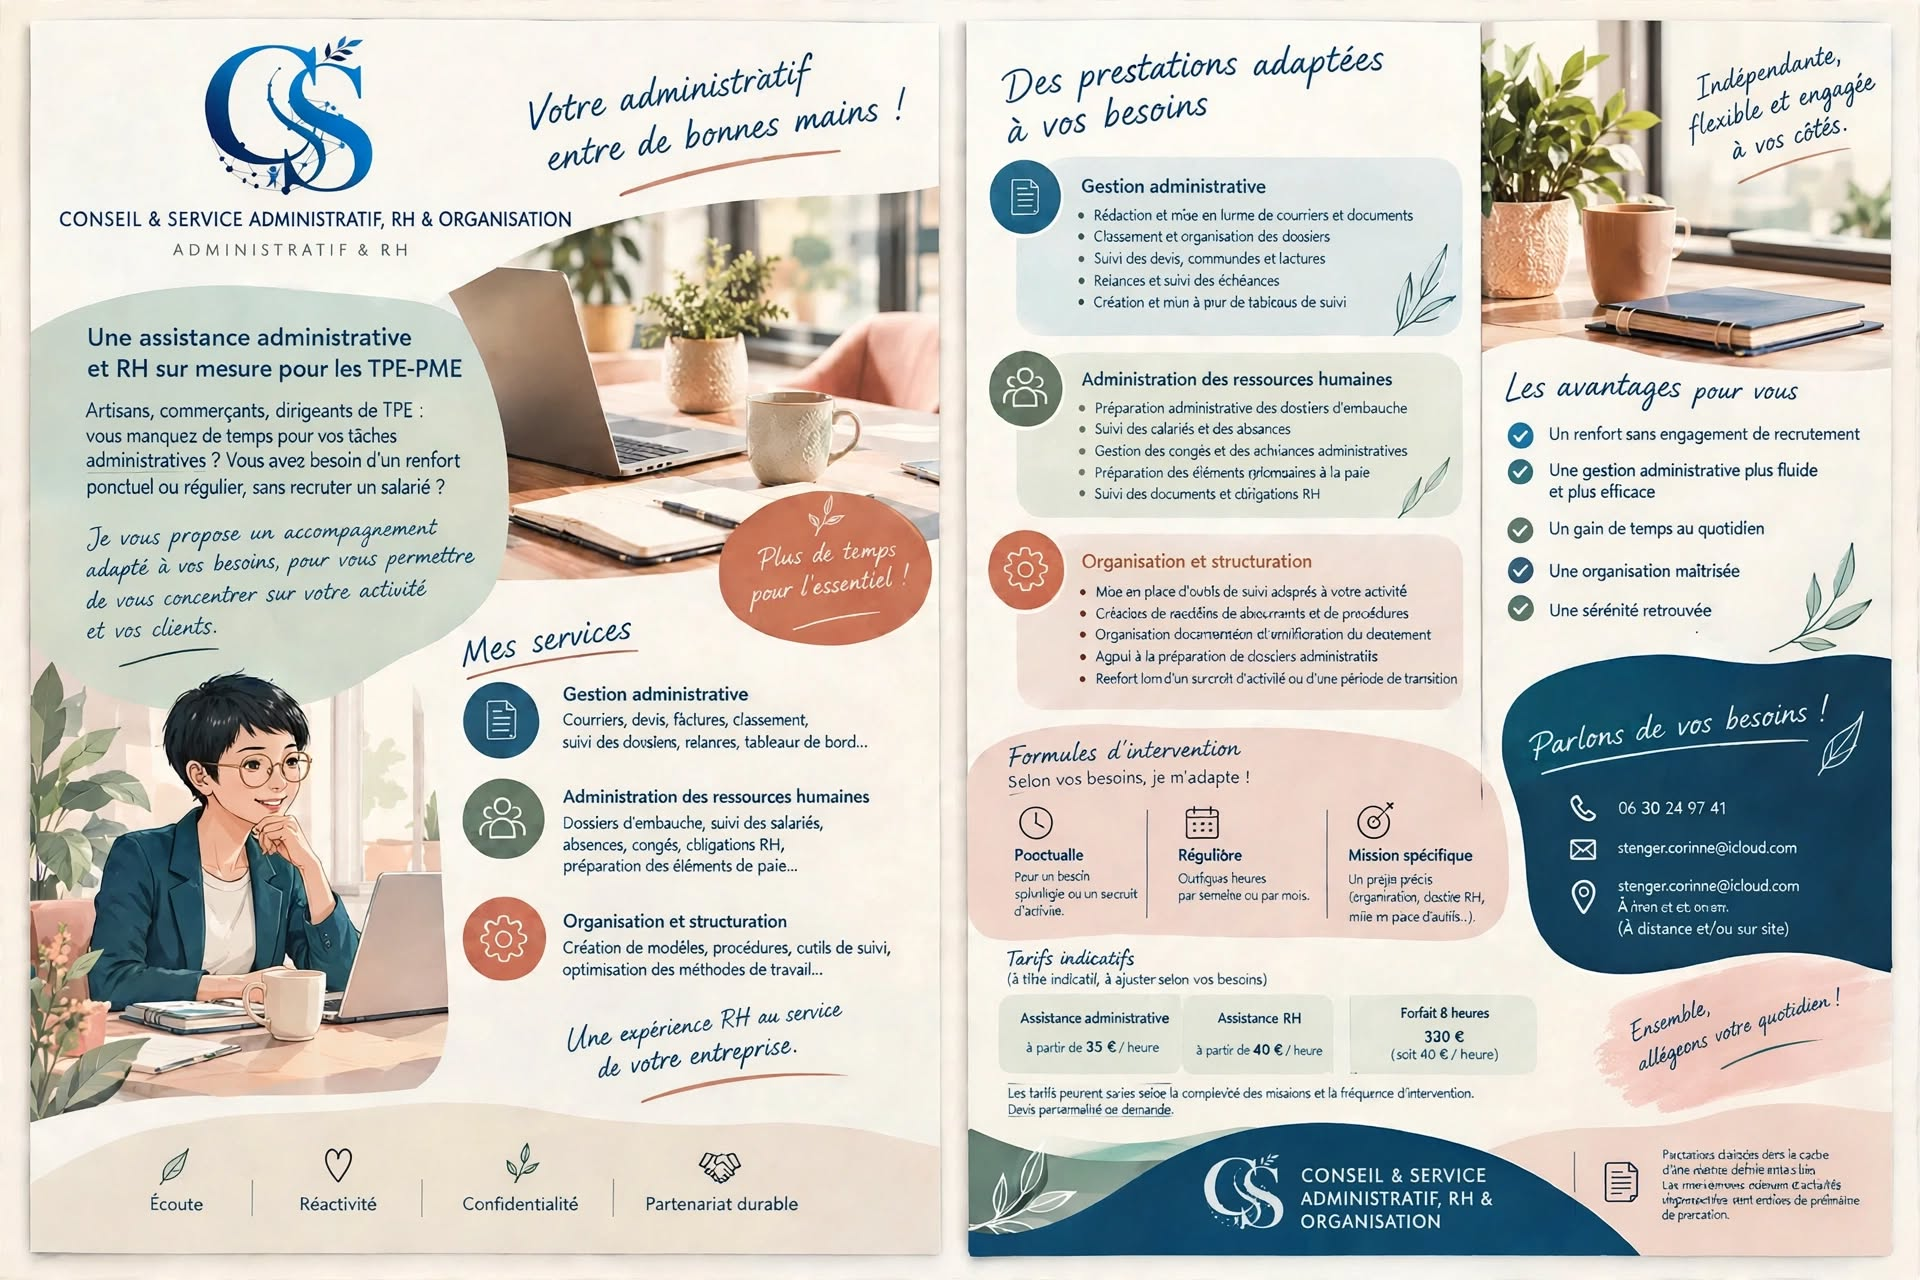
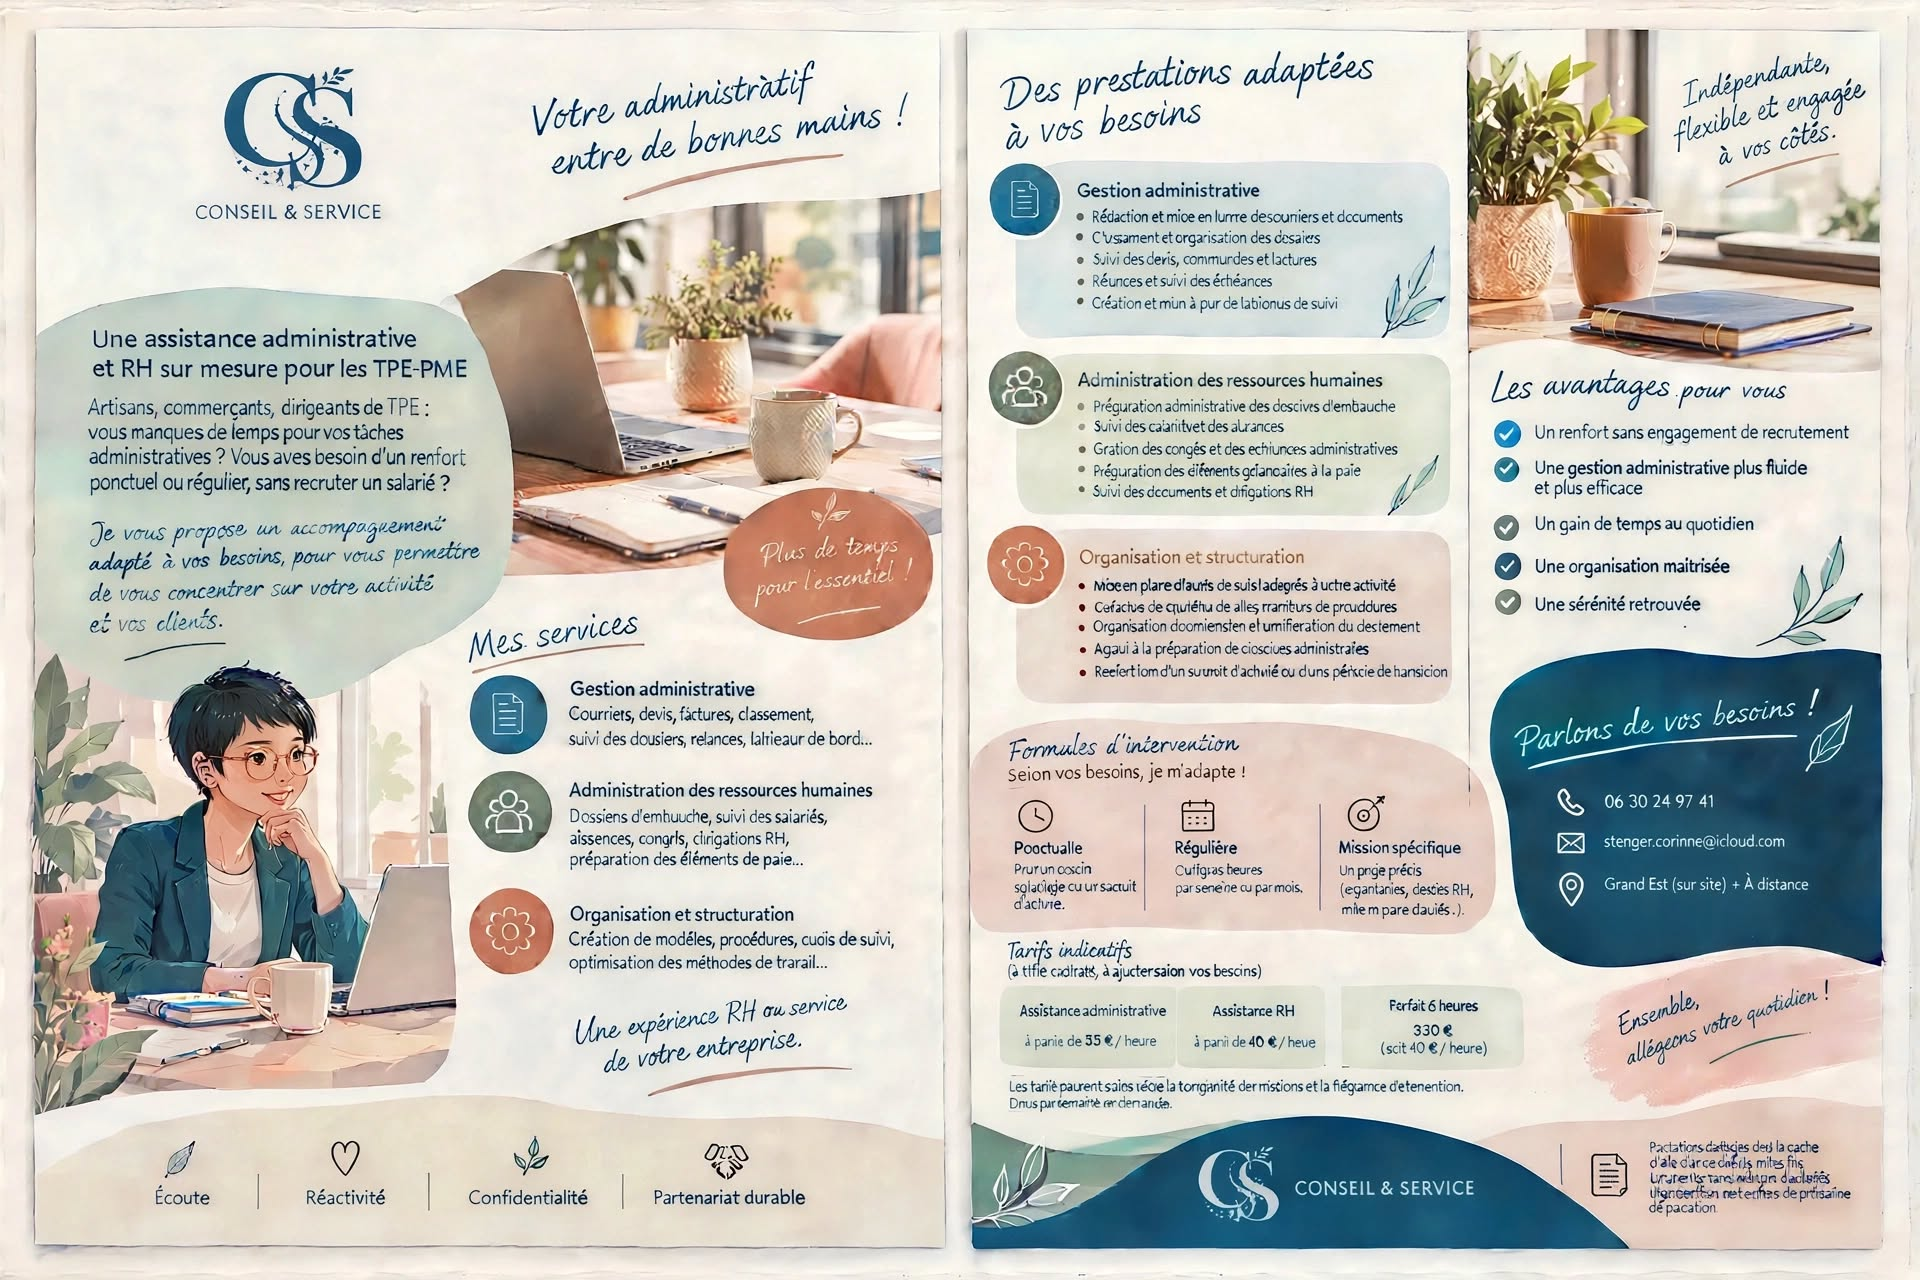
Ajout de la photo de profil et version finale du site

diff --git a/monsite.html b/monsite.html
@@ -15,6 +15,7 @@
             --bg-page: #ffffff;       
             --ink: #333333;
             --ink-soft: #5a5a5a;
+            --white: #ffffff;
         }
 
         * { margin: 0; padding: 0; box-sizing: border-box; }
@@ -92,6 +93,35 @@
         h2 { color: var(--navy); font-size: 2.2rem; font-weight: 400; margin-bottom: 2rem; position: relative; display: inline-block; }
         h2::after { content: ''; position: absolute; bottom: -10px; left: 50%; transform: translateX(-50%); width: 50px; height: 3px; background: var(--sage); border-radius: 2px; }
         
+        /* --- CARTE DE PROFIL --- */
+        .profile-card {
+            max-width: 260px;
+            margin: 0 auto 2rem auto;
+            border-radius: 20px;
+            overflow: hidden;
+            box-shadow: 0 12px 30px rgba(0,0,0,0.12);
+            background: var(--white);
+            border: 3px solid var(--sage-light);
+        }
+        .profile-card img {
+            width: 100%;
+            height: 280px;
+            object-fit: cover;
+            object-position: center top;
+            display: block;
+            background-color: var(--sage-light);
+        }
+        .profile-card figcaption {
+            padding: 16px;
+            font-family: 'Segoe UI', Roboto, sans-serif;
+            background: white;
+            font-weight: 600;
+            color: var(--navy);
+            font-size: 0.9rem;
+            text-align: center;
+            border-top: 2px solid var(--sage-light);
+        }
+
         /* Texte aligné à gauche */
         .text-left { text-align: left; }
         .text-left p { color: var(--ink-soft); font-size: 1.05rem; margin-bottom: 1.2rem; line-height: 1.7; }
@@ -117,17 +147,6 @@
         .cover-page h2::after { display: none; }
         .cover-page .page-footer { border-top-color: rgba(255,255,255,0.1); color: rgba(255,255,255,0.6); }
         .cover-page .page-footer strong { color: var(--sage); }
-
-        /* Photo de profil */
-        .profile-pic {
-            width: 130px;
-            height: 130px;
-            border-radius: 50%;
-            object-fit: cover;
-            border: 4px solid var(--sage-light);
-            margin-bottom: 1.5rem;
-            box-shadow: 0 4px 10px rgba(0,0,0,0.1);
-        }
 
         /* Encadré Contact */
         .contact-info-box {
@@ -237,7 +256,13 @@
         <!-- 2. PROFIL -->
         <div class="page" id="page-profil">
             <div class="page-content">
-                <img src="photo.jpg" alt="Corinne Stenger" class="profile-pic" onerror="this.style.display='none'">
+                
+                <!-- CARTE DE PROFIL -->
+                <figure class="profile-card">
+                    <img src="photo.jpg" alt="Corinne Stenger - Consultante RH et numérique">
+                    <figcaption>Corinne Stenger • Consultante RH & Numérique</figcaption>
+                </figure>
+
                 <h2>Profil — À propos</h2>
                 
                 <div class="text-left">
@@ -309,10 +334,10 @@
             </div>
         </div>
 
-        <!-- 4. EXPERTISE IT & OUTILS (Enrichie avec des exemples concrets) -->
+        <!-- 4. EXPERTISE IT & OUTILS -->
         <div class="page" id="page-it">
             <div class="page-content">
-                <h2>Informatique & numérique : des outils pratiques pour la gestion RH</h2>
+                <h2>Informatique & numérique : des outils pratiques</h2>
                 
                 <div class="text-left">
                     <p>Calculer une indemnité, retrouver une règle applicable, disposer des bonnes informations : certaines tâches RH demandent du temps et des recherches répétées. <strong>Je conçois des outils ciblés pour faciliter ces démarches</strong>, sans la complexité d’un logiciel généraliste.</p>
@@ -390,4 +415,3 @@
 
 </body>
 </html>
-
